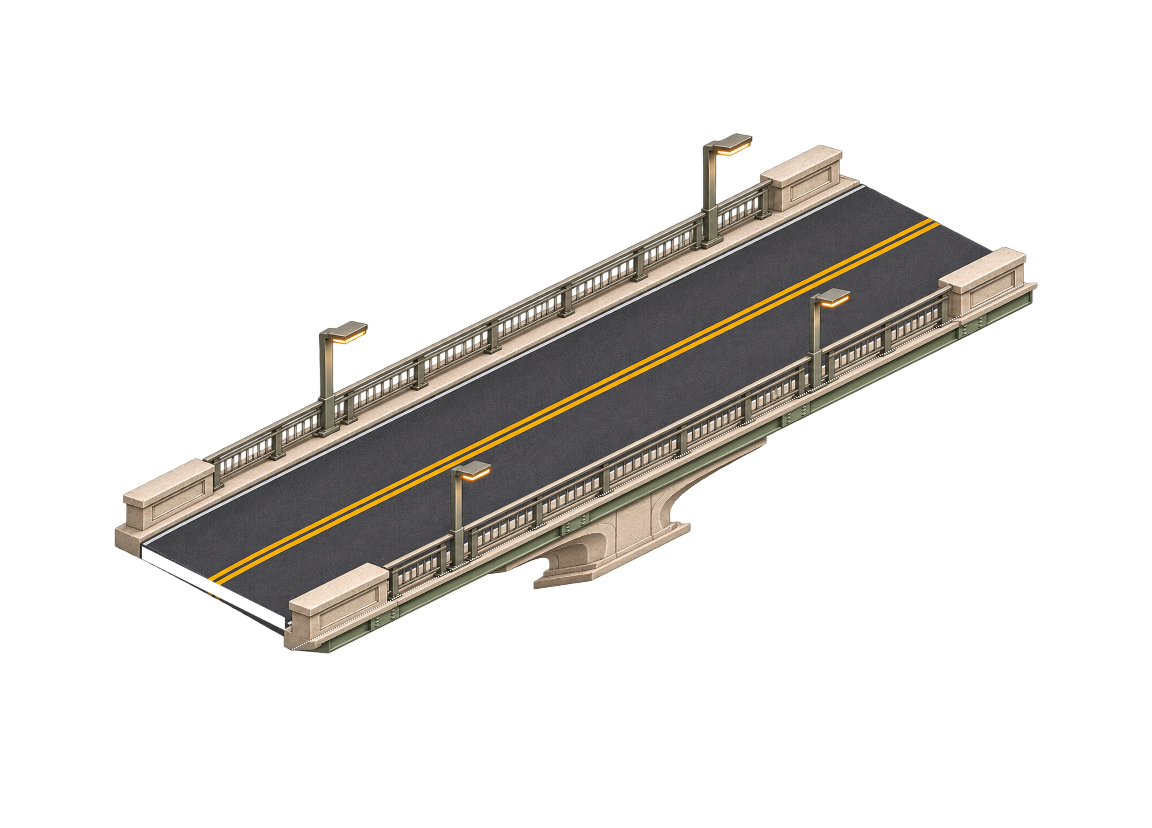
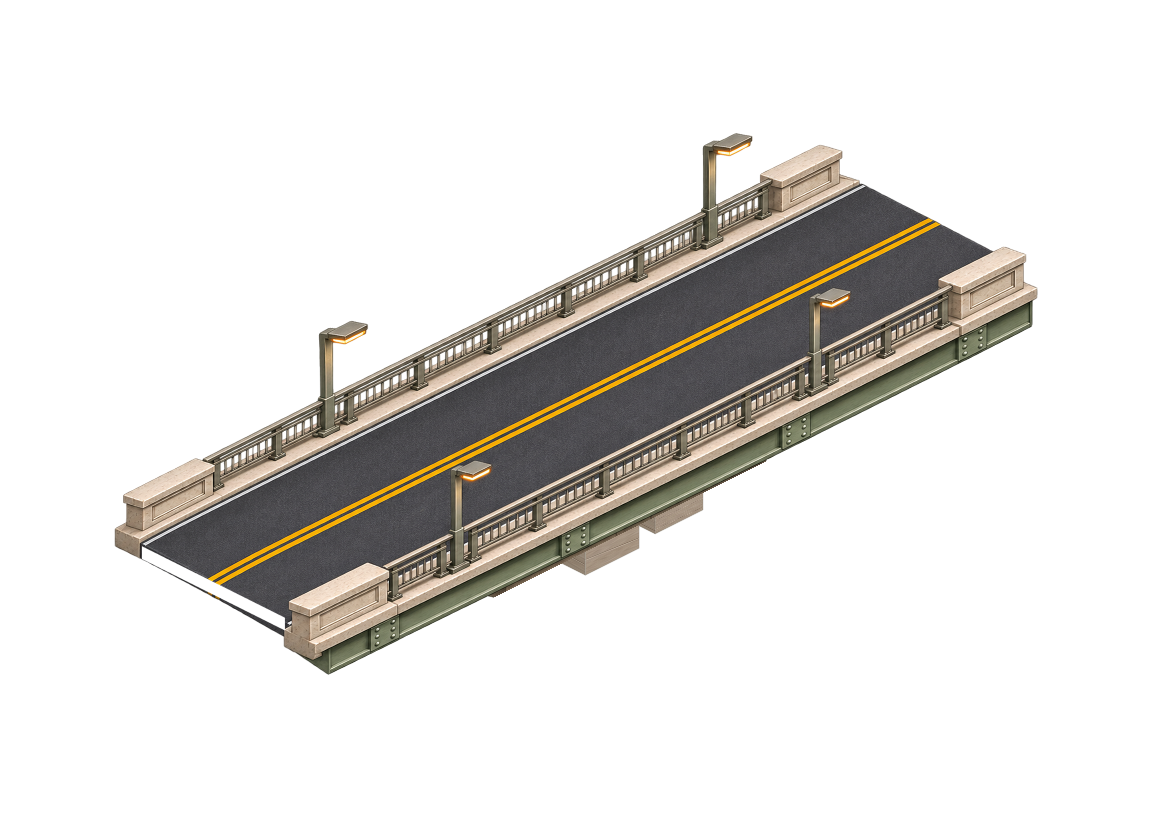
fix(city): orient the single bridge pier across the deck and cap zoom

Changed region(s): [[0.25, 0.3321, 0.9062, 0.8152]]

diff --git a/src/renderers/landscape.ts b/src/renderers/landscape.ts
@@ -27,9 +27,9 @@ export interface ContributionLandscape {
 /** 两种引擎共享播放/缩放/平移；缩放通知按面板的100%基准归一化。City不创建WebGL。 */
 export function createLandscape(host: HTMLElement, days: readonly DailyContribution[], onChange: (state: TimelineState, error?: string, detail?: string) => void, initialView: ViewMode = "city", assetBase = new URL(/* @vite-ignore */ "./assets/city/", import.meta.url).href, cityWonders = true, reservedYears?: readonly number[], onZoomChange?: (zoom: number) => void, namingOriginYear?: number): ContributionLandscape {
   const progressiveCity=initialView==="city"&&reservedYears!==undefined;
-  // 原City的150%作为新100%；最低保留原80%，不再缩到大片填图。
+  // 原City的150%作为新100%；City缩放固定下限50%，上限不超过2000%。
   const zoomBase=progressiveCity?1.875:initialView==="city"?1.5:1;
-  const minZoom=progressiveCity?1:.8;
+  const minZoom=zoomBase*.5;
   let currentDays=days,revealedDays=0,revealFrom=0,revealStarted=0;
   const timeline=createTimeline(days.length,initialView==="city"?3000:8000),viewport:LandscapeViewport={width:1,height:1,dpr:Math.min(devicePixelRatio,1.5),zoom:zoomBase,panX:0,panY:0,dark:false};
   let view=initialView,layer:LandscapeView|undefined,images:CityImages|undefined,assetPromise:Promise<CityImages>|undefined;
@@ -110,7 +110,7 @@ export function createLandscape(host: HTMLElement, days: readonly DailyContribut
   const down=(event:PointerEvent)=>{if(pointer)return;pointer={id:event.pointerId,x:event.clientX,y:event.clientY};host.setPointerCapture(event.pointerId);host.style.cursor="grabbing"};
   const move=(event:PointerEvent)=>{if(!pointer||pointer.id!==event.pointerId)return;viewport.panX+=event.clientX-pointer.x;viewport.panY+=event.clientY-pointer.y;pointer.x=event.clientX;pointer.y=event.clientY;schedule()};
   const up=(event:PointerEvent)=>{if(pointer?.id!==event.pointerId)return;pointer=undefined;host.style.cursor="grab"};
-  const zoomAt=(factor:number,x=0,y=0)=>{if(disposed)return;const next=Math.min(layer?.maxZoom?.(viewport)??5,Math.max(view==="city"?minZoom:.35,viewport.zoom*factor)),ratio=next/viewport.zoom;viewport.panX=x-(x-viewport.panX)*ratio;viewport.panY=y-(y-viewport.panY)*ratio;viewport.zoom=next;onZoomChange?.(next/zoomBase);schedule()};
+  const zoomAt=(factor:number,x=0,y=0)=>{if(disposed)return;const max=Math.min(layer?.maxZoom?.(viewport)??5,view==="city"?zoomBase*20:5),next=Math.min(max,Math.max(view==="city"?minZoom:.35,viewport.zoom*factor)),ratio=next/viewport.zoom;viewport.panX=x-(x-viewport.panX)*ratio;viewport.panY=y-(y-viewport.panY)*ratio;viewport.zoom=next;onZoomChange?.(next/zoomBase);schedule()};
   const wheel=(event:WheelEvent)=>{event.preventDefault();const rect=host.getBoundingClientRect();zoomAt(Math.exp(-event.deltaY*.0015),event.clientX-rect.left-viewport.width/2,event.clientY-rect.top-viewport.height/2)};
   // Only the stable, focused scene host owns arrows; inputs and browser shortcuts keep theirs.
   const keydown=(event:KeyboardEvent)=>{

diff --git a/docs/design/city-transport/v4/PROMPTS.md b/docs/design/city-transport/v4/PROMPTS.md
@@ -1,0 +1,7 @@
+# 单桥墩材料来源
+
+2026-11-08，内置imagegen，transparent_background=true，参照第二版transport-bridge-girder.png，输出exec-59d0c3f8-e023-40b5-864c-ed29a9dba352.png。源图1479×1063 RGBA，正式作为pier-material.png保存。生成结果的整体支撑方向不足以作为几何依据，因此只取其混凝土立面材质，盖梁和柱体由同桥面一致的2:1坐标投影离线贴材质，不直接采用生成图的长柱或盖梁外形。
+
+Use case: precise-object-edit. Production transparent isometric city game sprite. Preserve this entire modern olive-green girder road bridge's roadway, both road endpoints, railings and all four lamps exactly as reference. Replace ONLY the one concrete pier beneath its midpoint. The current T crosshead runs along the LENGTH of the bridge, which is physically wrong. TURN THE T CROSSHEAD 90 DEGREES IN THE HORIZONTAL PLANE so it runs ACROSS THE ROAD WIDTH, from the far-side green girder to the near-side green girder. Its transverse long edge must slope DOWN-RIGHT at +0.5; the bridge longitudinal edge still slopes UP-RIGHT at -0.5. Strict 2:1 parallel isometric camera, NO perspective convergence. The crosshead is a short wide concrete beam under the deck, mostly occluded by the deck except its front transverse face, supporting BOTH longitudinal green girders, NOT a long fin beneath just the near girder. Under the center of that transverse cap, ONE vertical square concrete column on the bridge centerline and exactly midspan. Column cross-section small, correctly projected square edges parallel to both deck axes. Show a sturdy upright column extending downward another 150px into empty transparent space so the game can submerge its bottom in water; no broad pedestal, no exposed horizontal footing, no ground plane. Fine smooth concrete detail and restrained panel seams like an architectural sprite. Absolutely NO paired piers, no arch openings, no center support oriented parallel to bridge length. Keep original deck position, orientation and composition; include full sprite, true transparent background, no water, no scenery, no text, no cast shadow outside sprite.
+
+源图中的长柱不表示运行桥高；正式几何只到现有水位，不新增高桥洞、墩基台面或引桥坡度。取样范围见calibration.json。

diff --git a/docs/design/city-transport/v4/README.md b/docs/design/city-transport/v4/README.md
@@ -1,0 +1,11 @@
+# 单桥墩梁桥透视修正
+
+2026-11-08。用户更正：所指的是单个T形桥墩的现代梁桥，先前改石拱桥对错了对象。本轮只修梁桥，保持当前桥面高度及引桥。
+
+原支撑图沿桥长展开，加上约0.504倍的桥下压缩，看起来像沿桥侧的薄片。现在盖梁沿局部W轴横跨1.44格桥宽、Z向厚0.32格；柱体中心为(nativeWidth/2,nativeDepth/2)，竖线X不变，水平面的两轴投影斜率严格为±0.5。柱底四角终止于共享水面，不绘制浮在水面的基础台，不逐列缩放。盖梁和直柱按原桥面/纵梁遮挡。
+
+原桥面高度0.18、河面下沉0.75不变。素材中的水面屏幕落差为(0.18+0.75)/2=0.465，扣除放置时桥面抬高的0.09，正好等于河面绘制的0.375。盖梁和短柱只占现有净空，不把原画长柱当作运行高度。
+
+材料由内置imagegen定向编辑提供；生成外形未作为准确几何使用，只保留混凝土纹理。完整源图pier-material.png为1479×1063、965,889 bytes，提示见[PROMPTS.md](PROMPTS.md)；离线坐标和贴材质见calibration.json及scripts/bake-city-transport.mjs。原第二版源图保留。运行只解码PNG，不增加几何或像素处理。
+
+最终运行图1152×828、565,443 bytes，较旧图增加20,197 bytes，不增加素材数量。583,488个桥面及上部保留像素差异0，桥下39,366像素改变；世界宽深、车幅、桥高、引桥、桥位和支撑锚点元数据完全相同。运行PNG重新解码RGBA差异0。制作继续使用bake-city-transport.mjs --outDir <临时目录>/baked --canvasModule <Canvas模块>/index.js。当前生产河道近景已检查；真实GitHub地图仍待用户重载验收。

diff --git a/docs/PERFORMANCE.md b/docs/PERFORMANCE.md
@@ -1,6 +1,6 @@
 # 性能约束与验证
 
-2026-11-08 连接与缩放：街区接点、避让和最小生成树只在原场景规划阶段执行，不在渲染后改布局；沿用原静态地面缓存。新石墩离线合成/裁水线，运行尺寸仍1152×789，PNG减少19,419 bytes，不新增素材或逐帧几何操作。City最低取景提高、150%改标100%，实际最大细节尺度保持。六组本地浏览器贡献守恒与20年一次规划计时见[修正报告](reports/CITY-SUMMARY-LINKS-BRIDGE-ZOOM.md)，不推导FPS、内存或功耗收益。
+2026-11-08 连接与缩放：街区接点、避让和最小生成树只在原场景规划阶段执行，不在渲染后改布局；沿用原静态地面缓存。新石墩离线合成/裁水线，运行尺寸仍1152×789，PNG减少19,419 bytes，不新增素材或逐帧几何操作。City150%改标100%，最低50%、最高不超过2000%，保留原素材细节上限。单墩梁桥的准确投影只在离线制作中执行，运行尺寸仍1152×828，PNG增加20,197 bytes，不增加图数或逐帧操作。六组本地浏览器贡献守恒与20年一次规划计时见[修正报告](reports/CITY-SUMMARY-LINKS-BRIDGE-ZOOM.md)，不推导FPS、内存或功耗收益。
 
 2026-11-08 轮廓：活动地块包围盒、庭院保留、年度共用走廊与季度接入均在原场景规划阶段完成，不在绘制后修补布局。注册塔只铺1×1基座；普通稀疏样本深度7→5，稠密样本保持7，共用年度主路及季度穿越数未变。沿用一次地面缓存和单帧绘制；总量/非零日期覆盖与实际800×500浏览器路径见[报告](reports/CITY-HOVER-DETAILS-AND-JOINING.md)，不以面积下降推导FPS或内存收益。
 

diff --git a/docs/PRODUCT.md b/docs/PRODUCT.md
@@ -1,6 +1,6 @@
 # 产品定义
 
-2026-11-08 补充：建筑浮层只展示时间规律、项目和数量汇总，不列具体PR/Issue标题。街区连接从真实直道接点选更短的可行正交路径，避免统一向西绕行；保持年度共用路和四向出口。石桥改用刚性竖直石墩及入水裁切，保留桥面。City旧150%为新100%，旧80%为最低约53%，默认视野与最大细节尺度不变，全景按钮缩到下限并居中。实测与边界见[修正报告](reports/CITY-SUMMARY-LINKS-BRIDGE-ZOOM.md)。
+2026-11-08 补充：建筑浮层只展示时间规律、项目和数量汇总，不列具体PR/Issue标题。街区连接从真实直道接点选更短的可行正交路径，避免统一向西绕行；保持年度共用路和四向出口。石桥改用刚性竖直石墩及入水裁切，保留桥面。用户实际指出的单桥墩梁桥已另行修正：横向盖梁、居中短直柱、柱底到共享水位，不提高桥面和引桥。City旧150%为新100%，最低50%、最高不超过2000%，默认视野不变，全景按钮缩到下限并居中。实测与边界见[修正报告](reports/CITY-SUMMARY-LINKS-BRIDGE-ZOOM.md)。
 
 2026-11-08 用户确认轮廓调整：周/年保留时间定位与道路骨架，外缘采用连续活动地块的包围盒适度平滑内收，内部零星空白保留庭院；年度连接走廊和共用道路轴线不拆分。独立注册塔地基1×1，不沿整周铺地。稀疏、稠密及跨河六年比较的事实和范围见[本轮报告](reports/CITY-HOVER-DETAILS-AND-JOINING.md)。
 

diff --git a/ASSETS.md b/ASSETS.md
@@ -31,6 +31,10 @@
 
 石拱桥下部改用内置imagegen定向编辑的刚性石墩，取消逐列伸缩，按共享水位裁去入水部分。桥面保留原像素，运行图仍1152×789、643,712 bytes，减少19,419 bytes，不增加PNG数量；梁桥不变。新源图、提示和标定见[第三版记录](docs/design/city-transport/v3/README.md)，源图不进入发行包。
 
+## 2026-11-08 单墩梁桥方向修正
+
+单墩梁桥采用沿桥宽的横向盖梁与居中短直柱。内置imagegen只提供混凝土纹理，支撑面按桥面共用2:1坐标离线贴材质，避免直接采用方向不准确的生成外形。运行PNG仍1152×828、565,443 bytes，增加20,197 bytes，不增加图数；桥面像素保留。材料源图、提示和几何参数见[第四版记录](docs/design/city-transport/v4/README.md)，源图不进入发行包。
+
 ## 依赖
 
 随包代码的第三方许可见 `THIRD_PARTY_NOTICES.md`。构建工具及类型依赖只用于开发，不把其整个 `node_modules/` 放入发行包。当前构建仍保留暂停的 Terrain/Three.js 分包，因此保留相应许可声明；首发入口只有 City。
